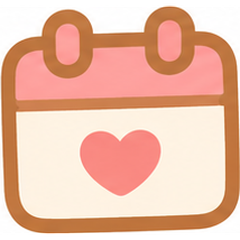
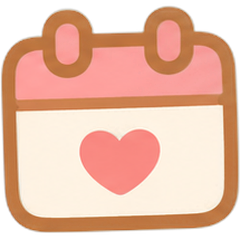
assets: 图标 v2 透明版全量重导入——alpha 切分 18 枚（每日键+17 spares 覆盖+整表归档）

diff --git a/HANDOFF.md b/HANDOFF.md
@@ -55,7 +55,8 @@ D:\Agent_project\Petpet
 
 | 领域 | 内容 |
 |------|------|
-| **每日键新图标+备用图标库+更多键去每日点**（2026-09-28，v1.7.5 后待发） | 用户 ChatGPT 图标表（1774×887，3×6=**18 枚**，视觉初报 10 实为满阵——逐格投影切分+带编号拼图核对：#1 红日历/#2 星星/#3 礼物/#4 书本/#5 音符/#6 爱心/#7 盆栽/#8 圆盘/#9 信封/#10 月亮/#11 相机/#12 旗帜/#13 铅笔/#14 蝴蝶结/#15 指南针/#16 雨伞/#17 灯泡/#18 小屋）。**#1 红日历 → `bubble_menu/daily_rewards.png`**（方画布居中 240²，替换 PIL 手绘版）；**其余 17 枚 → `assets/source/bubble_menu_drafts/spare_*.png` 备用**（source 归档不进 runtime，零守卫负担）。**更多键的蓝点答疑+修正**：上轮把每日双态点同时挂在「每日」和「更多」两键——用户问「更多为什么有蓝点」，定稿改为**每日红/蓝点只挂「每日」专属键**，「更多」恢复只挂成就可领红点（既有）；测试规格反转。全量 **1004 passed**。坑位：视觉数图标不可信（10 vs 实际 18）——切分素材一律投影分段+编号拼图核对。 |
+| **每日键新图标+备用图标库+更多键去每日点**（2026-09-28，v1.7.5 后待发） | 用户 ChatGPT 图标表（1774×887，3×6=**18 枚**，视觉初报 10 实为满阵——逐格投影切分+带编号拼图核对：#1 红日历/#2 星星/#3 礼物/#4 书本/#5 音符/#6 爱心/#7 盆栽/#8 圆盘/#9 信封/#10 月亮/#11 相机/#12 旗帜/#13 铅笔/#14 蝴蝶结/#15 指南针/#16 雨伞/#17 灯泡/#18 小屋）。**#1 红日历 → `bubble_menu/daily_rewards.png`**（方画布居中 240²，替换 PIL 手绘版）；**其余 17 枚 → `assets/source/bubble_menu_drafts/spare_*.png` 备用**（source 归档不进 runtime，零守卫负担）。**更多键的蓝点答疑+修正**：上轮把每日双态点同时挂在「每日」和「更多」两键——用户问「更多为什么有蓝点」，定稿改为**每日红/蓝点只挂「每日」专属键**，「更多」恢复只挂成就可领红点（既有）；测试规格反转。全量 **1004 passed**。坑位：视觉数图标不可信（10 vs 实际 18）——切分素材一律投影分段+编号拼图核对。**同日 v2**：用户重处理透明版（asset-0.png，RGBA alpha 通道干净）——alpha 通道切分 18 枚全量重导入（每日键+17 spares 覆盖+整表归档 spare_sheet_v2.png）；菜单截图目检边缘干净透明、大小协调。 |
+
 | **每日双态点（蓝=未完/红=可领优先）**（2026-09-26 三轮，v1.7.5 后待发） | 用户定稿：「每日任务没做完用蓝点提示，有红色逻辑优先红」。`daily.py` 新增 `daily_attention_state`——"red"（签到可签/任务可领/全勤可领任一，优先）/"blue"（今日任务块在且有未领取任务）/None（全清）；core 再导出。菜单：`_attention_flags` 第四元素由 bool 升状态串；新 `attention_dot_color(action,…)` 返回点色（红 #ee5e62 / 蓝 #4a90d9 / None；成就可领等既有红点族恒红）；绘制改按色画点。真机实测当前态=blue 截图目检（第6/7键白边蓝心清晰）。测试 +4（三态/红优先含未签/菜单蓝态亮+四色断言+成就红优先保持）；全量 **1004 passed**。 |
 | **悬浮全域兜底**（2026-09-26 二轮，v1.7.5 后待发） | 用户报「首次悬浮必须精准悬到图形上（更多太薄难选），希望整格都是可识别区」。取证链：offscreen 直调命中已是整格 → 真窗实光标探针（QCursor.setPos+widgetAt/underMouse）显示**菜单在顶却零 mouseMove 投递**（NoActivate/Tool 窗在程序移光标路径下收不到 move；真实鼠标可亮但首帧路径不稳）。修两层：① `_update_hover_at(global_pos)` **按当前几何直算格子**（不依赖 paint 期 _bubble_rects）；② eventFilter 加 **app 级 MouseMove 兜底**——任何窗口的 move 到达时光标在本窗 frameGeometry 内即驱动悬浮/出窗即清（NoActivate 路由怪癖全兜住）；mouseMoveEvent 改走同一函数。测试 +2（整格图标外角落命中/出窗清零）+perf 夹具补 globalPos；全量 **1001 passed**。坑位：实例属性 monkeypatch 拦不到 C++ 虚表调用（PyQt 虚函数必须类级或 subclass 探）；QCursor.setPos 不代表真实鼠标输入（探针失真源头）。 |
 | **第三个小游戏「记忆翻牌」**（2026-09-26，v1.7.5 后待发） | 小游戏中心第三卡：**4×4 翻牌配对**（8 对，卡面复用气泡菜单图标资产零新素材；卡背奶杏色「?」、配对珊瑚定格）。**纯逻辑** `minigames/memory.py::MemoryBoard`（洗牌/翻牌状态机：两张开着翻第三张自动合上前者、moves=完成的配对尝试）+ `memory_reward`（完美 8 步=40 币，每多一步 -2，下限 8）；`_MemoryCardGrid` 自绘点击面（与金币雨画布同属游戏画布豁免）+ `MemoryMatchGameWindow`（信息行/再玩一局/`award_minigame_coins` 单口结算，score=16-步数 存最佳）。接入：`GAME_DEFINITIONS`/`_open_game` 映射/`MINIGAME_IDS` 三处；hub「开始」键 2→3（测试同步）。测试 +6（牌组/状态机/自动合上/完成奖励/下限/busy）；全量 **996 passed**；真机冒烟（完美局 8 步 40 币入账、best 记录 8、截图目检 4×4 齐整风格统一）。坑位：minigames/ui.py 此前无 QFont/BUBBLE_MENU_DIR 导入（离屏 import 不炸、真 paint 才 NameError——又一次「裸跑才现形」）。**发布后即修（用户报「玩不了」）：MemoryMatchGameWindow 漏 override 基类 abstract `refresh()`——hub 打开走 show_near_pet→refresh 当场 NotImplementedError（excepthook 日志秒定案，diag.log 留 8 条堆栈），窗口根本没显示；补 refresh + 回归钉（三游戏类必须各自 override refresh + show_near_pet 真路径不抛）；冒烟教训=必须走 hub→show_near_pet 用户路径而非直接构造+show。全量 998 passed。**再修（用户报：点进去 Pet币变 0，玩一局才好）**：我的 refresh 漏刷币标签——CoinPillLabel 构造默认 0，另两个游戏 refresh 都先 `_refresh_coin_label()`，补齐 + 入场币值回归钉（refresh 后币标签=真实余额 123）；窗口同步放大 850×960（用户定稿同幅）。全量 **999 passed**。 |
